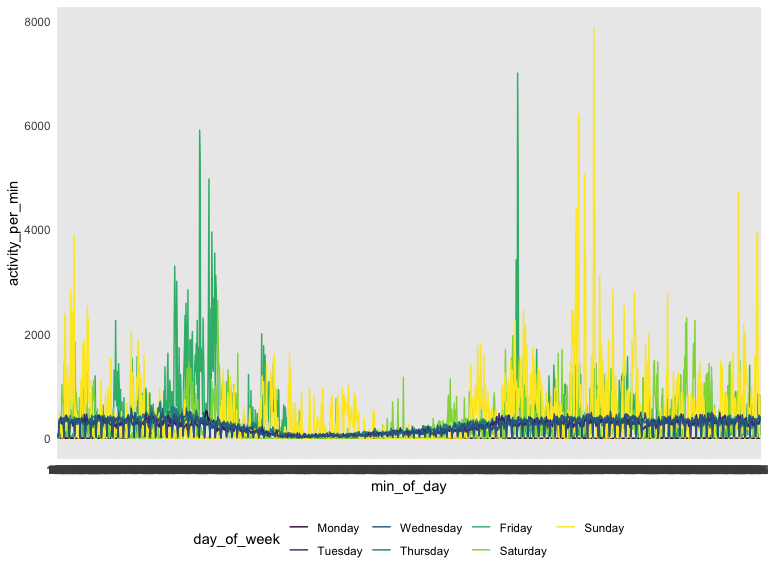
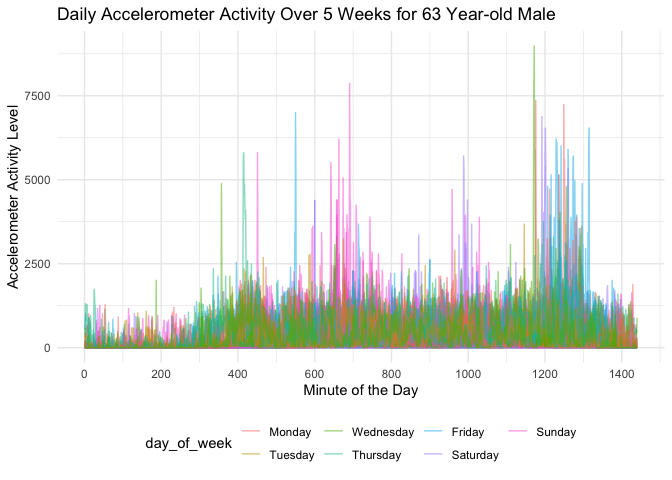
Updated problem 3

diff --git a/p8105_HW3_ah3108.md b/p8105_HW3_ah3108.md
@@ -66,7 +66,7 @@ items %>%
        y = "Number of Items Ordered")
 ```
 
-<img src="p8105_HW3_ah3108_files/figure-gfm/unnamed-chunk-3-1.png" width="90%" />
+![](p8105_HW3_ah3108_files/figure-gfm/unnamed-chunk-3-1.png)<!-- -->
 
 # AVA COMMENT
 
@@ -444,7 +444,7 @@ loca_df =
 
 
 #Part B
-  brfss %>% 
+brfss %>% 
   filter(health_rating == "Excellent") %>% 
   group_by(state, year) %>% 
   mutate(
@@ -453,12 +453,12 @@ loca_df =
   distinct(state, year, data_avg) %>%
   ggplot(aes(x = year, y = data_avg, color = state)) +
   geom_line(aes(group = state)) +
-    labs(title = "Average excellent rating across time, by state",
+  labs(title = "Average excellent rating across time, by state",
        x = "Year",
        y = "Across state average percent excellent rating")
 ```
 
-<img src="p8105_HW3_ah3108_files/figure-gfm/unnamed-chunk-7-1.png" width="90%" />
+![](p8105_HW3_ah3108_files/figure-gfm/unnamed-chunk-7-1.png)<!-- -->
 
 ``` r
 #Part C
@@ -474,7 +474,7 @@ loca_df =
 # Part A - wrangle data
 accel_df = read_csv("./accel_data.csv") %>% 
   janitor::clean_names() %>% 
-    rename(day_of_week = day) %>% 
+  rename(day_of_week = day) %>% 
   mutate(
     day_of_week = as.factor(day_of_week),
     day_of_week = ordered(day_of_week, levels = c("Monday", "Tuesday", "Wednesday", "Thursday", "Friday", "Saturday", "Sunday")),
@@ -492,10 +492,10 @@ accel_df = read_csv("./accel_data.csv") %>%
 # Part B - aggregate across activity
 
 accel_df %>% 
-    mutate(
-      act_sum = select(., activity_1:activity_1440) 
-      %>% apply(1, sum, na.rm = TRUE),
-      ) %>% 
+  mutate(
+    act_sum = select(., activity_1:activity_1440) 
+    %>% apply(1, sum, na.rm = TRUE),
+  ) %>% 
   select(act_sum, week, day_of_week) %>% 
   pivot_wider(
     names_from = day_of_week,
@@ -831,16 +831,27 @@ Sunday
 ``` r
 # Part C - figure across day
 
-accel_df %>% 
+long_accel = accel_df %>% 
   pivot_longer(
     cols = activity_1:activity_1440,
     names_to = "min_of_day",
-   names_prefix = "activity_",
+    names_prefix = "activity_",
     values_to = "activity_per_min"
   ) %>% 
-  filter(week == 1) %>% 
+  mutate(
+    min_of_day = as.integer(min_of_day)
+  )
+
+
+long_accel %>% 
+  #filter(week == 1) %>% 
   ggplot(aes(x = min_of_day, y = activity_per_min, color = day_of_week)) +
-  geom_line(aes(group = day_id))
+  geom_line(aes(group = day_id), alpha = 0.5) +
+  scale_x_continuous(breaks = seq(0, 1400, 200)) +
+  scale_color_hue() +
+    labs(title = "Daily Accelerometer Activity Over 5 Weeks for 63 Year-old Male",
+       x = "Minute of the Day",
+       y = "Accelerometer Activity Level") 
 ```
 
-<img src="p8105_HW3_ah3108_files/figure-gfm/unnamed-chunk-11-1.png" width="90%" />
+![](p8105_HW3_ah3108_files/figure-gfm/unnamed-chunk-11-1.png)<!-- -->
